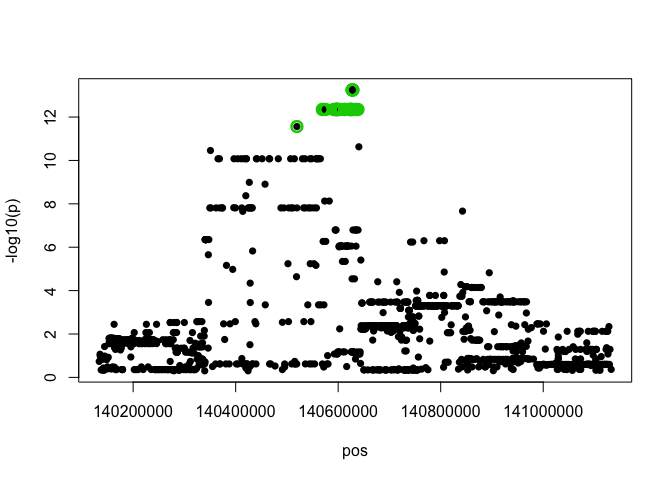
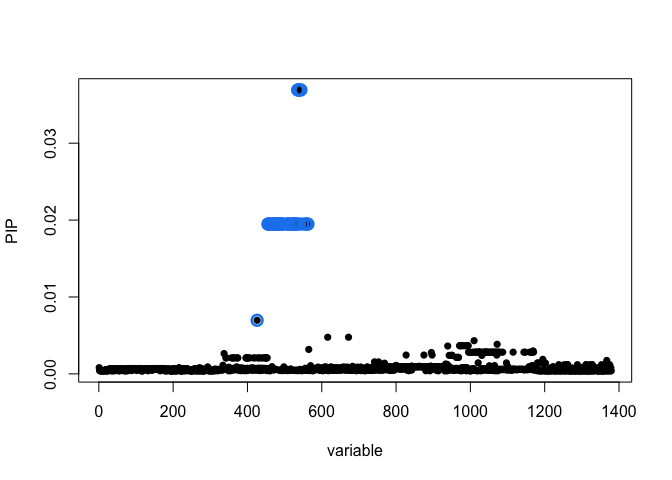
Update fine mapping example.

diff --git a/analysis/fine_mapping/fine_mapping_example.md b/analysis/fine_mapping/fine_mapping_example.md
@@ -10,12 +10,6 @@ output:
 
 
 
-Install the susieR R packages from GitHub:
-
-```r
-devtools::install_github("stephenslab/susieR@0.9.0")
-```
-
 ## Preparing the data
 
 First, we need to import the processed flow cytometry intensity values from the variance compoent analysis tutorial:
@@ -33,7 +27,7 @@ intensity_matrix
 ```
 
 ```
-## # A tibble: 121 x 7
+## # A tibble: 121 × 7
 ##    line_id genotype_id      flow_date   CD14  CD16 CD206 sample_id        
 ##    <chr>   <chr>            <date>     <dbl> <dbl> <dbl> <chr>            
 ##  1 aipt_2  HPSI0513i-aipt_2 2014-06-16 1.71  1.06  2.29  aipt_2_2014-06-16
@@ -62,7 +56,7 @@ head(genotypes$snpspos)
 ```
 
 ```
-## # A tibble: 6 x 3
+## # A tibble: 6 × 3
 ##   snpid      chr         pos
 ##   <chr>      <chr>     <int>
 ## 1 rs13188297 5     140133794
@@ -79,18 +73,18 @@ genotypes$genotypes[1:5,1:5]
 ```
 
 ```
-##            HPSI0114i-bezi_1 HPSI0114i-eipl_1 HPSI0114i-fikt_3
-## rs13188297                2                2                2
-## rs13156549                2                1                2
-## rs269783                  2                2                1
-## rs156095                  0                1                1
-## rs185123                  0                1                0
-##            HPSI0114i-iisa_3 HPSI0114i-joxm_1
-## rs13188297                1                2
-## rs13156549                1                2
-## rs269783                  2                1
-## rs156095                  0                1
-## rs185123                  0                0
+##            HPSI0114i-bezi_1 HPSI0114i-eipl_1 HPSI0114i-fikt_3 HPSI0114i-iisa_3
+## rs13188297                2                2                2                1
+## rs13156549                2                1                2                1
+## rs269783                  2                2                1                2
+## rs156095                  0                1                1                0
+## rs185123                  0                1                0                0
+##            HPSI0114i-joxm_1
+## rs13188297                2
+## rs13156549                2
+## rs269783                  1
+## rs156095                  1
+## rs185123                  0
 ```
 
 ```r
@@ -149,18 +143,18 @@ cd14_genotypes[1:5,1:5]
 ```
 
 ```
-##            HPSI0114i-bezi_1 HPSI0114i-eipl_1 HPSI0114i-fikt_3
-## rs13188297                2                2                2
-## rs13156549                2                1                2
-## rs269783                  2                2                1
-## rs156095                  0                1                1
-## rs185123                  0                1                0
-##            HPSI0114i-iisa_3 HPSI0114i-joxm_1
-## rs13188297                1                2
-## rs13156549                1                2
-## rs269783                  2                1
-## rs156095                  0                1
-## rs185123                  0                0
+##            HPSI0114i-bezi_1 HPSI0114i-eipl_1 HPSI0114i-fikt_3 HPSI0114i-iisa_3
+## rs13188297                2                2                2                1
+## rs13156549                2                1                2                1
+## rs269783                  2                2                1                2
+## rs156095                  0                1                1                0
+## rs185123                  0                1                0                0
+##            HPSI0114i-joxm_1
+## rs13188297                2
+## rs13156549                2
+## rs269783                  1
+## rs156095                  1
+## rs185123                  0
 ```
 
 ```r
@@ -211,17 +205,21 @@ fitted <- susieR::susie(standard_genotypes, cd14_intensity_vector,
 ```
 
 ```
-## [1] "objective:4.6503203977023"
-## [1] "objective:9.33070272105073"
-## [1] "objective:9.90449476338386"
-## [1] "objective:9.99254026937473"
-## [1] "objective:10.0177854477139"
-## [1] "objective:10.0208631909704"
-## [1] "objective:10.0285334294403"
-## [1] "objective:10.0288555730711"
-## [1] "objective:10.0304724613254"
-## [1] "objective:10.0305228644133"
-## [1] "objective:10.0308374604745"
+## For an X with many columns, please consider installing  the Rfast package for more efficient credible set (CS)  calculations.
+```
+
+```
+## [1] "objective:4.65032039770232"
+## [1] "objective:9.3307027210506"
+## [1] "objective:9.90449476181859"
+## [1] "objective:9.99254026696784"
+## [1] "objective:10.0177854477985"
+## [1] "objective:10.0208631912315"
+## [1] "objective:10.0285334294726"
+## [1] "objective:10.028855573103"
+## [1] "objective:10.0304724616306"
+## [1] "objective:10.0305228648284"
+## [1] "objective:10.0308374606489"
 ```
 
 ```r
@@ -274,18 +272,18 @@ Visualise fine mapping results on top of -log10 p-values z-scores from univariat
 
 
 ```r
-susieR::susie_plot(fitted, y = "z", pos = pos_tbl$pos)
+susieR::susie_plot(fitted, y = "z")
 ```
 
-![](fine_mapping_example_files/figure-html/unnamed-chunk-15-1.png)<!-- -->
+![](fine_mapping_example_files/figure-html/unnamed-chunk-14-1.png)<!-- -->
 
 Visualise posterior inclusion probability (PIP) for each variant directly
 
 
 ```r
-susieR::susie_plot(fitted, y = "PIP", pos = pos_tbl$pos)
+susieR::susie_plot(fitted, y = "PIP")
 ```
 
-![](fine_mapping_example_files/figure-html/unnamed-chunk-16-1.png)<!-- -->
+![](fine_mapping_example_files/figure-html/unnamed-chunk-15-1.png)<!-- -->
 
-Variants included in the credible set are marked with green. Note that none of the PIP values are large, indicating the the model is not confident that any specifc variant in this region is causal, even though the z-scores on the previous plot indicate that tere is a very strong associaton in this region.
+Variants included in the credible set are marked with green. Note that none of the PIP values are large, indicating the the model is not confident that any specific variant in this region is causal, even though the z-scores on the previous plot indicate that there is a very strong association in this region.
